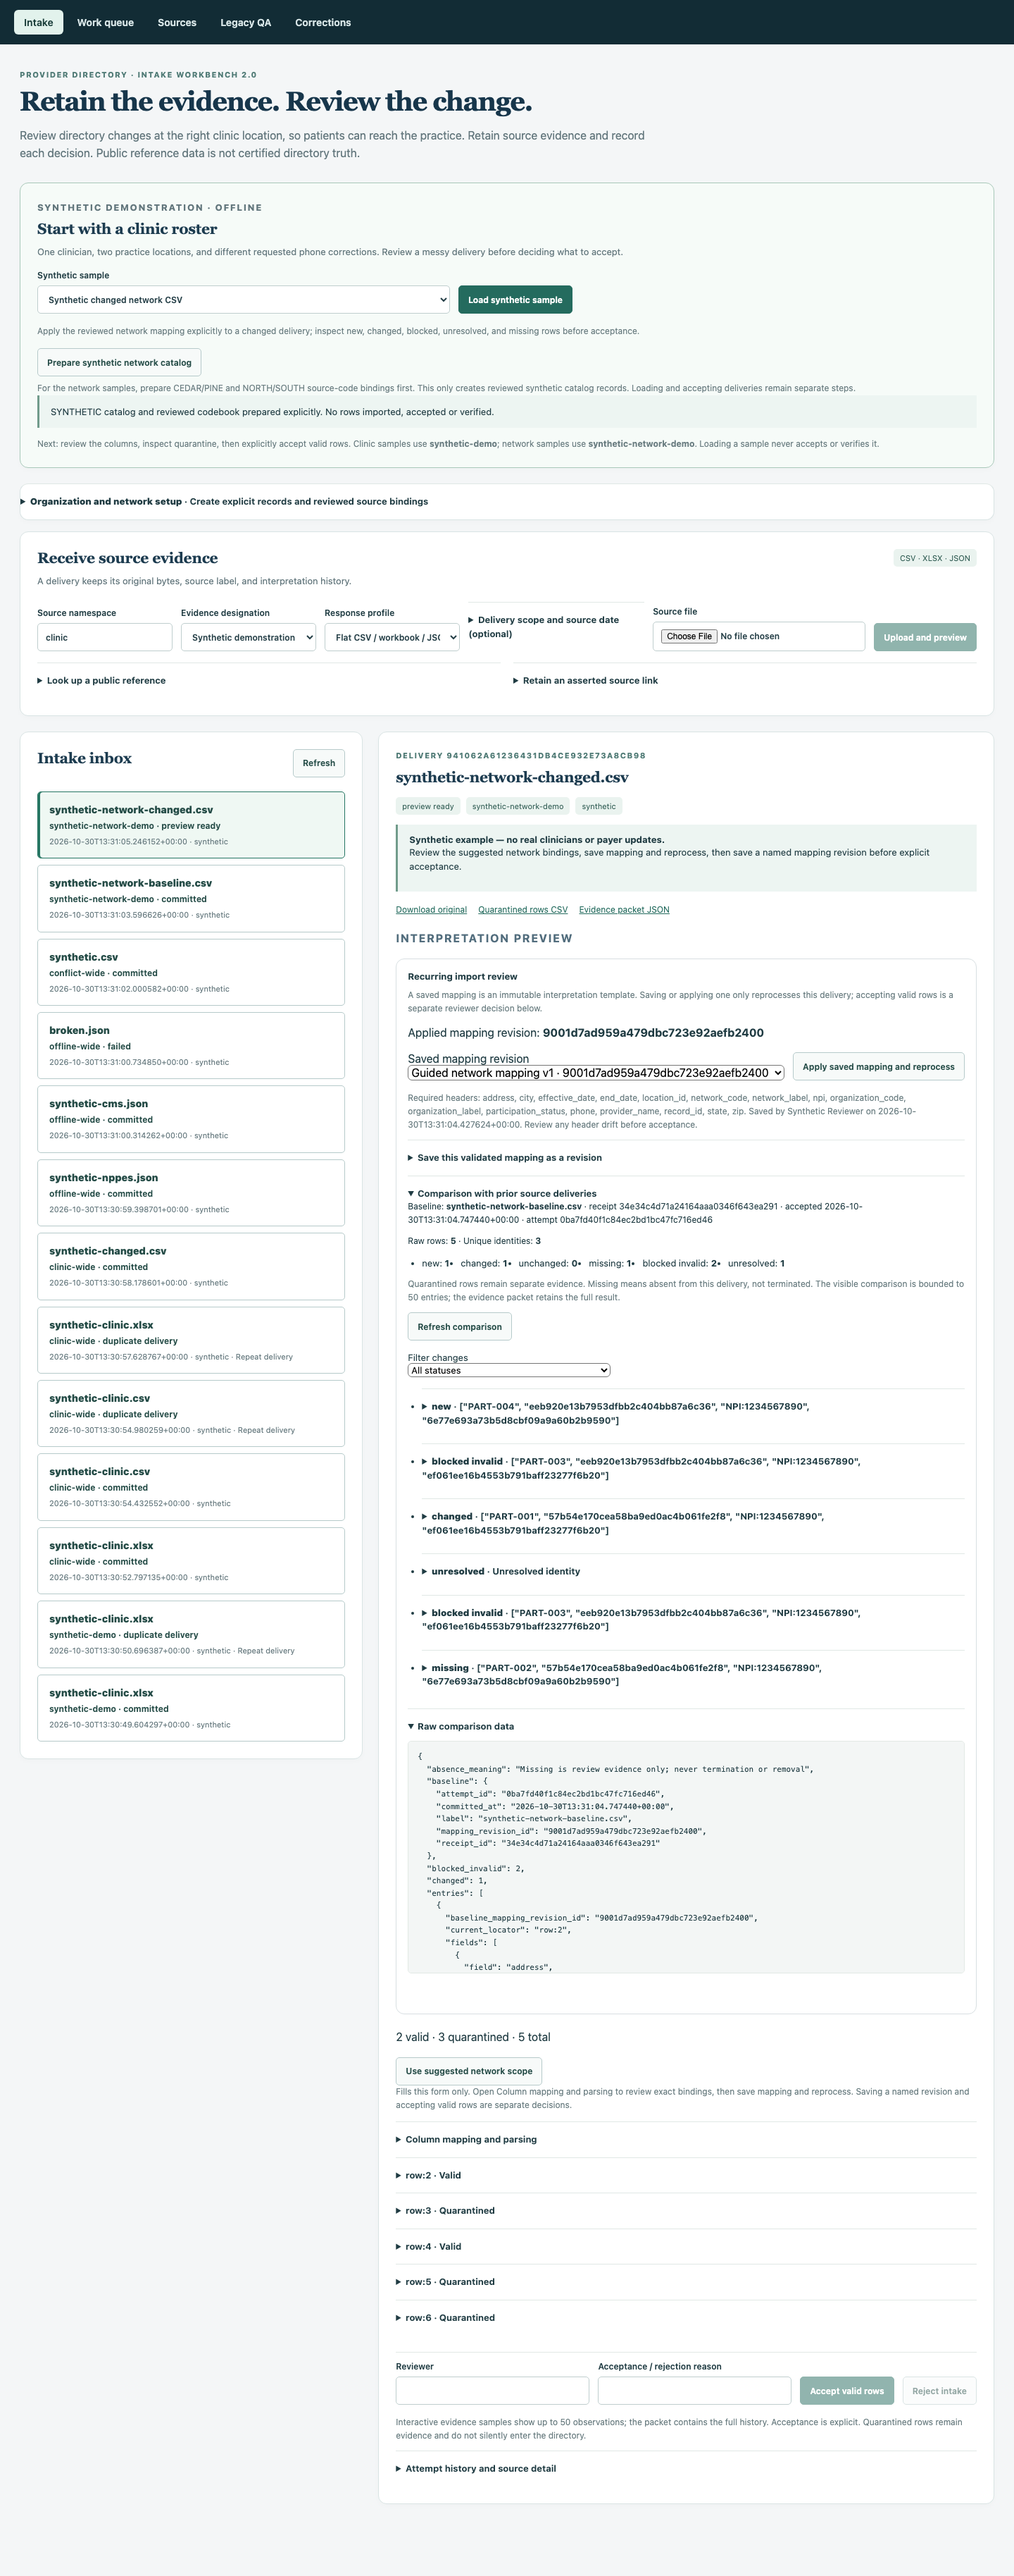
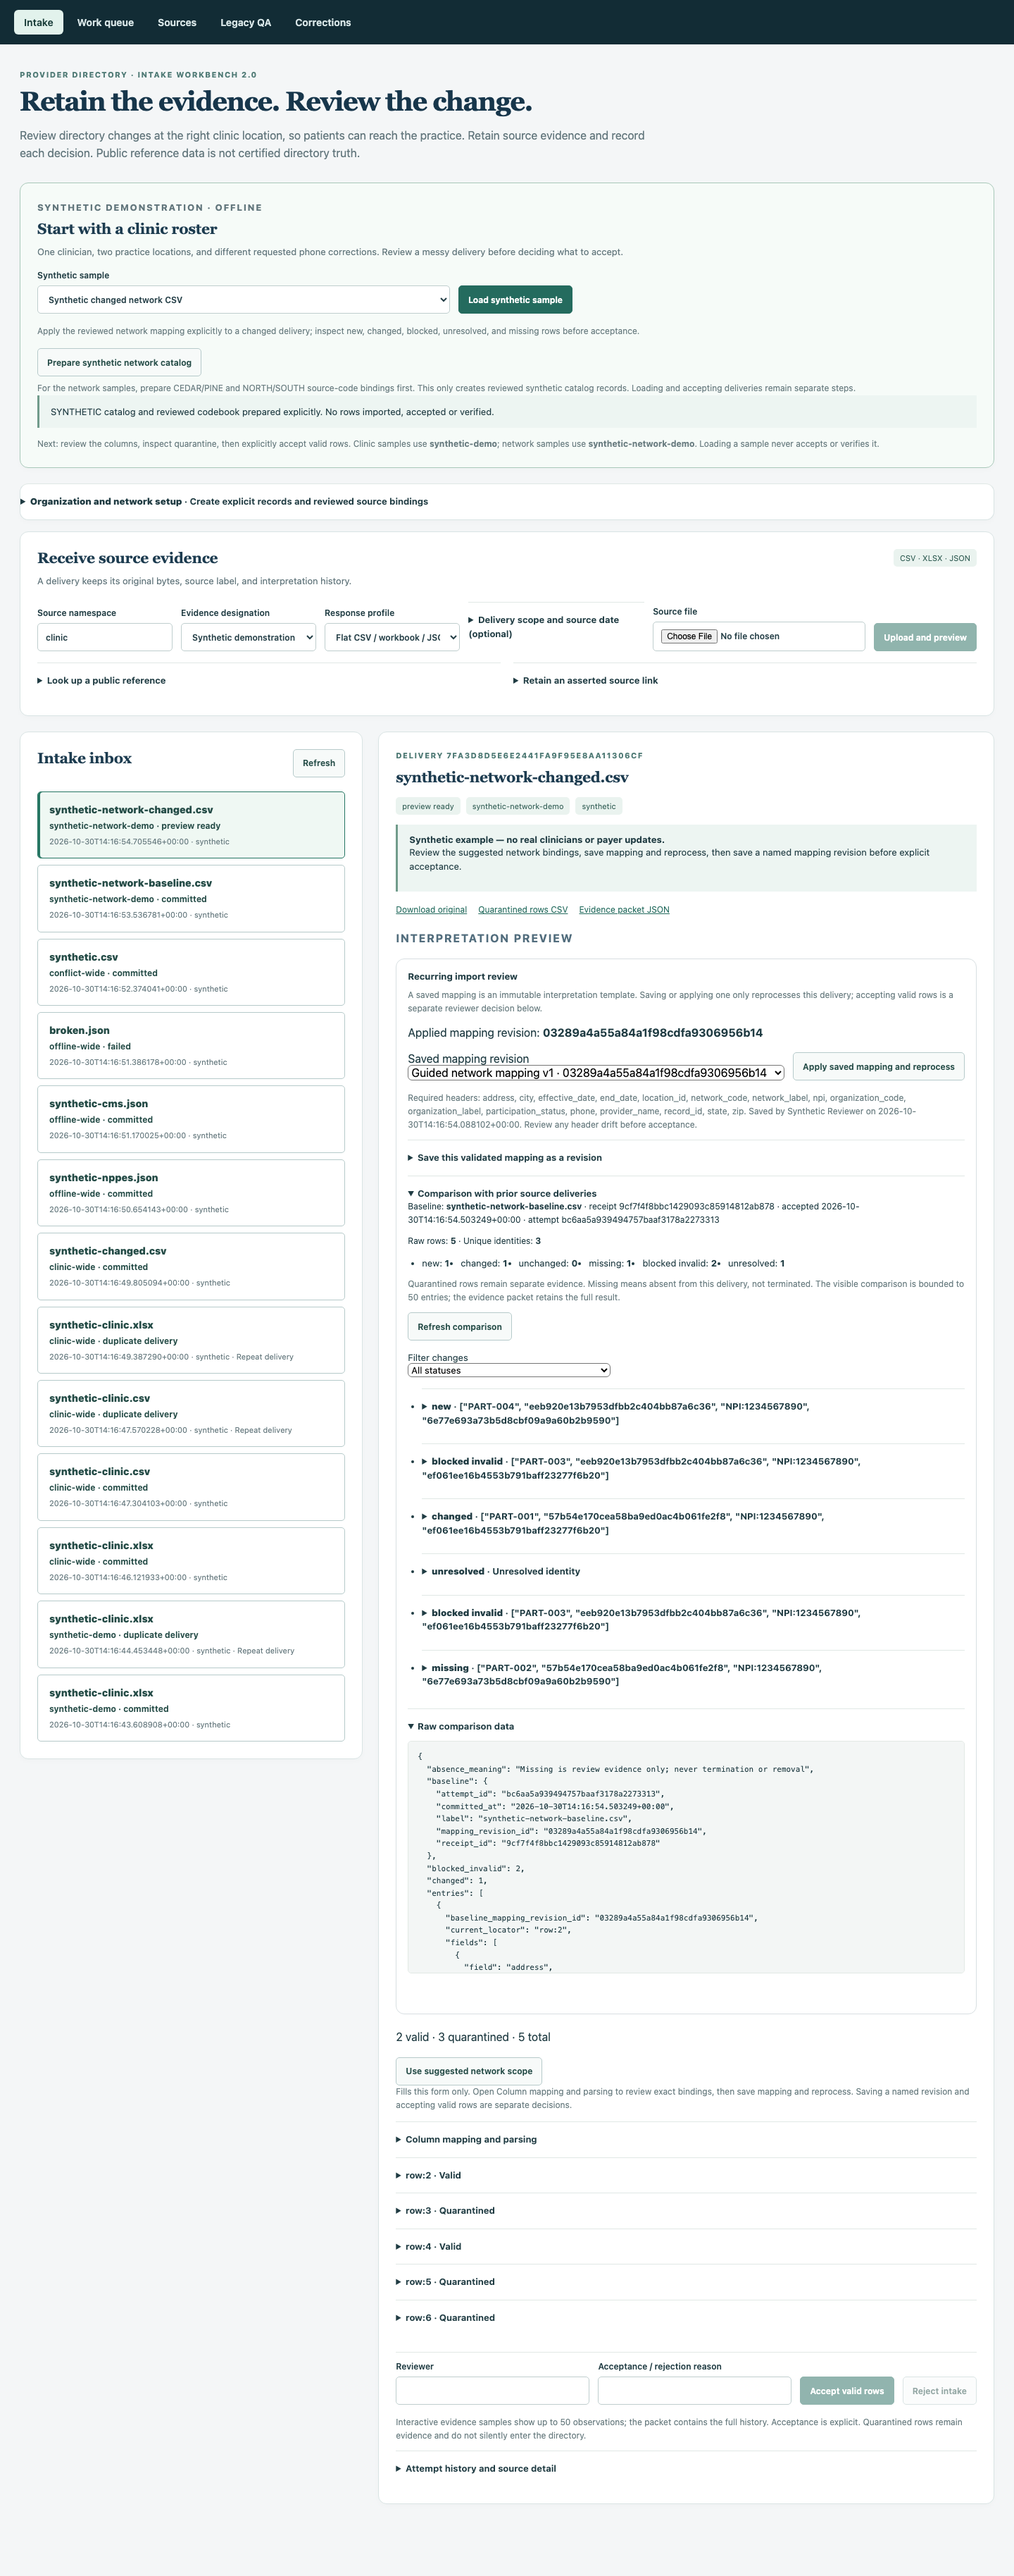
Keep recurring comparison values inside compact viewports

Changed region(s): [[0.5625, 0.6862, 0.625, 0.7174]]

diff --git a/web/src/recurring-import.css b/web/src/recurring-import.css
@@ -1,8 +1,8 @@
-.ri-section { margin-block: 1.25rem; padding: 1rem; border: 1px solid var(--line, #d8dfe2); border-radius: .75rem; }
+.ri-section { margin-block: 1.25rem; padding: 1rem; border: 1px solid var(--line, #d8dfe2); border-radius: .75rem; min-width: 0; overflow-wrap: anywhere; }
 .ri-section h4 { margin-top: 0; }
 .ri-controls { display: flex; flex-wrap: wrap; align-items: end; gap: .75rem; margin-block: 1rem; }
 .ri-controls label { flex: 1 1 16rem; min-width: 0; }
-.ri-controls select, .ri-filter select { display: block; width: 100%; }
+.ri-controls select, .ri-filter select { display: block; width: 100%; min-width: 0; max-width: 100%; }
 .ri-counts { display: flex; flex-wrap: wrap; gap: .4rem 1rem; padding-left: 1.25rem; }
 .ri-filter { display: block; max-width: 18rem; margin-block: 1rem; }
 .ri-entries { padding-left: 1.25rem; }

diff --git a/docs/evidence/data_operations/n4/README.md b/docs/evidence/data_operations/n4/README.md
@@ -26,6 +26,6 @@ All **7,449** pre-existing files were preserved: **7,411 unchanged in place**, w
 
 ## Integration findings and limits
 
-The final pass corrected network-source assumptions in the original sample regression and an ambiguous mapping-summary browser locator. Remote SQL-slice CI also exposed a repeat-sample test race; the browser now waits for the new receipt ID before filling reviewer inputs. All 22 browser scenarios were rerun successfully locally. A late no-mutation check exposed retained writable SQLite connections: native connection contexts transact without closing, so GC could checkpoint an earlier writer during a later read. Shared connection contexts and backup targets now close deterministically, with commit/rollback/close/WAL and GC regressions; read-only snapshots still use explicitly closed mode=ro connections. Final scope review also verified that later accepted organization assertions retain all referenced catalog/binding records while initial case scope/history stays unchanged.
+The final pass corrected network-source assumptions in the original sample regression and an ambiguous mapping-summary browser locator. The first Linux N4 CI run found 14px compact comparison overflow from retained identifiers/native control sizing; recurring sections now wrap unbroken values and constrain selectors to their available width. The viewport assertion remains unchanged. Remote SQL-slice CI also exposed a repeat-sample test race; the browser now waits for the new receipt ID before filling reviewer inputs. All 22 browser scenarios were rerun successfully locally. A late no-mutation check exposed retained writable SQLite connections: native connection contexts transact without closing, so GC could checkpoint an earlier writer during a later read. Shared connection contexts and backup targets now close deterministically, with commit/rollback/close/WAL and GC regressions; read-only snapshots still use explicitly closed mode=ro connections. Final scope review also verified that later accepted organization assertions retain all referenced catalog/binding records while initial case scope/history stays unchanged.
 
 Public-source reads were not rerun. Source status, reported dates, completeness and human verification remain separate assertions; absence never terminates membership. This is a bounded local workbench, without authentication, hosting, payer writeback, automatic entity merge or production-concurrency claims. Local qualification is separate from GitHub branch checks, pull requests and default-branch adoption.
